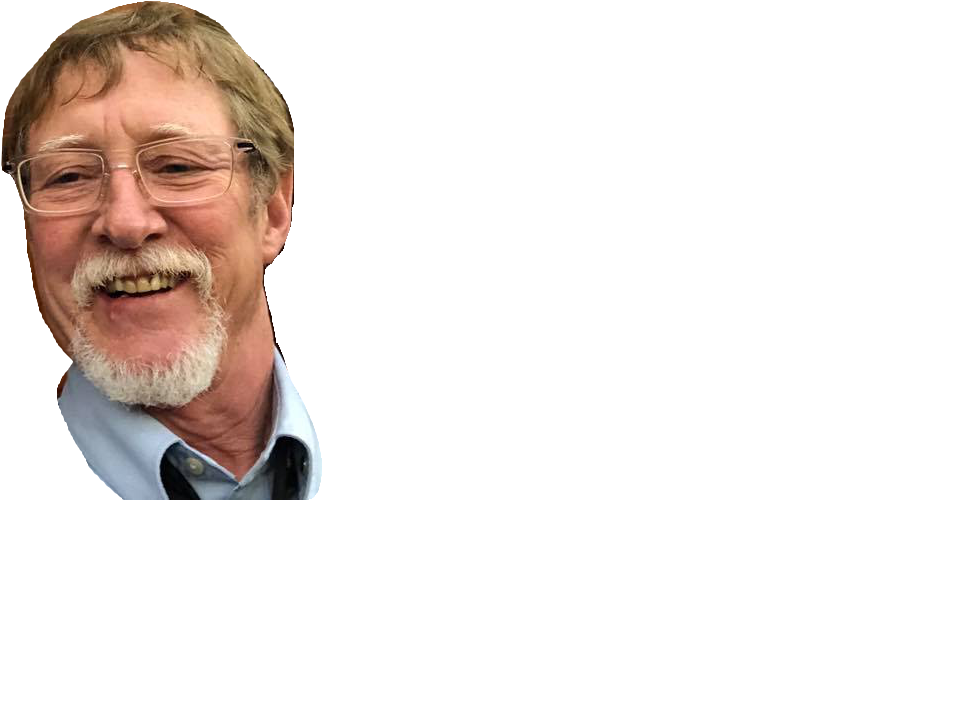
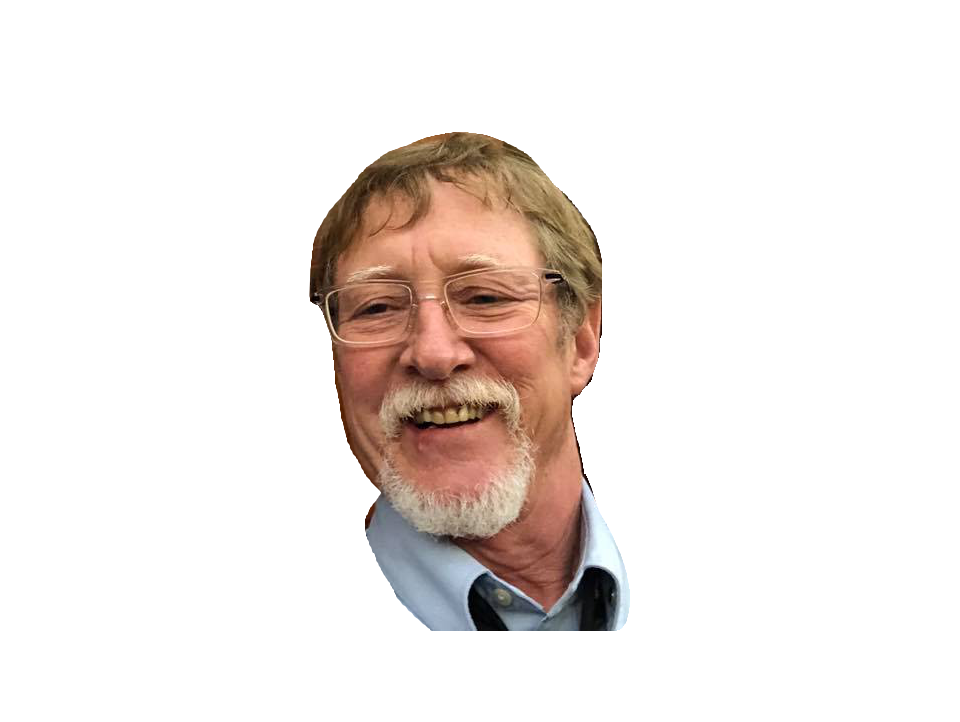
Add files via upload

diff --git a/sketch.js b/sketch.js
@@ -157,7 +157,7 @@ function draw() {
 				pop()
 
 				push()
-				imageMode(CENTER)
+				imageMode(CORNER)
 				image(brother_jay, poses[0].pose.rightShoulder.x, poses[0].pose.nose.y , windowWidth / 2, windowHeight / 2)
 				image(sister_noah, poses[0].pose.leftWrist.x, poses[0].pose.nose.y , windowWidth / 2, windowHeight /2)
 				image(mother, poses[0].pose.rightWrist.x, poses[0].pose.nose.y , windowWidth / 3, windowHeight / 3)
